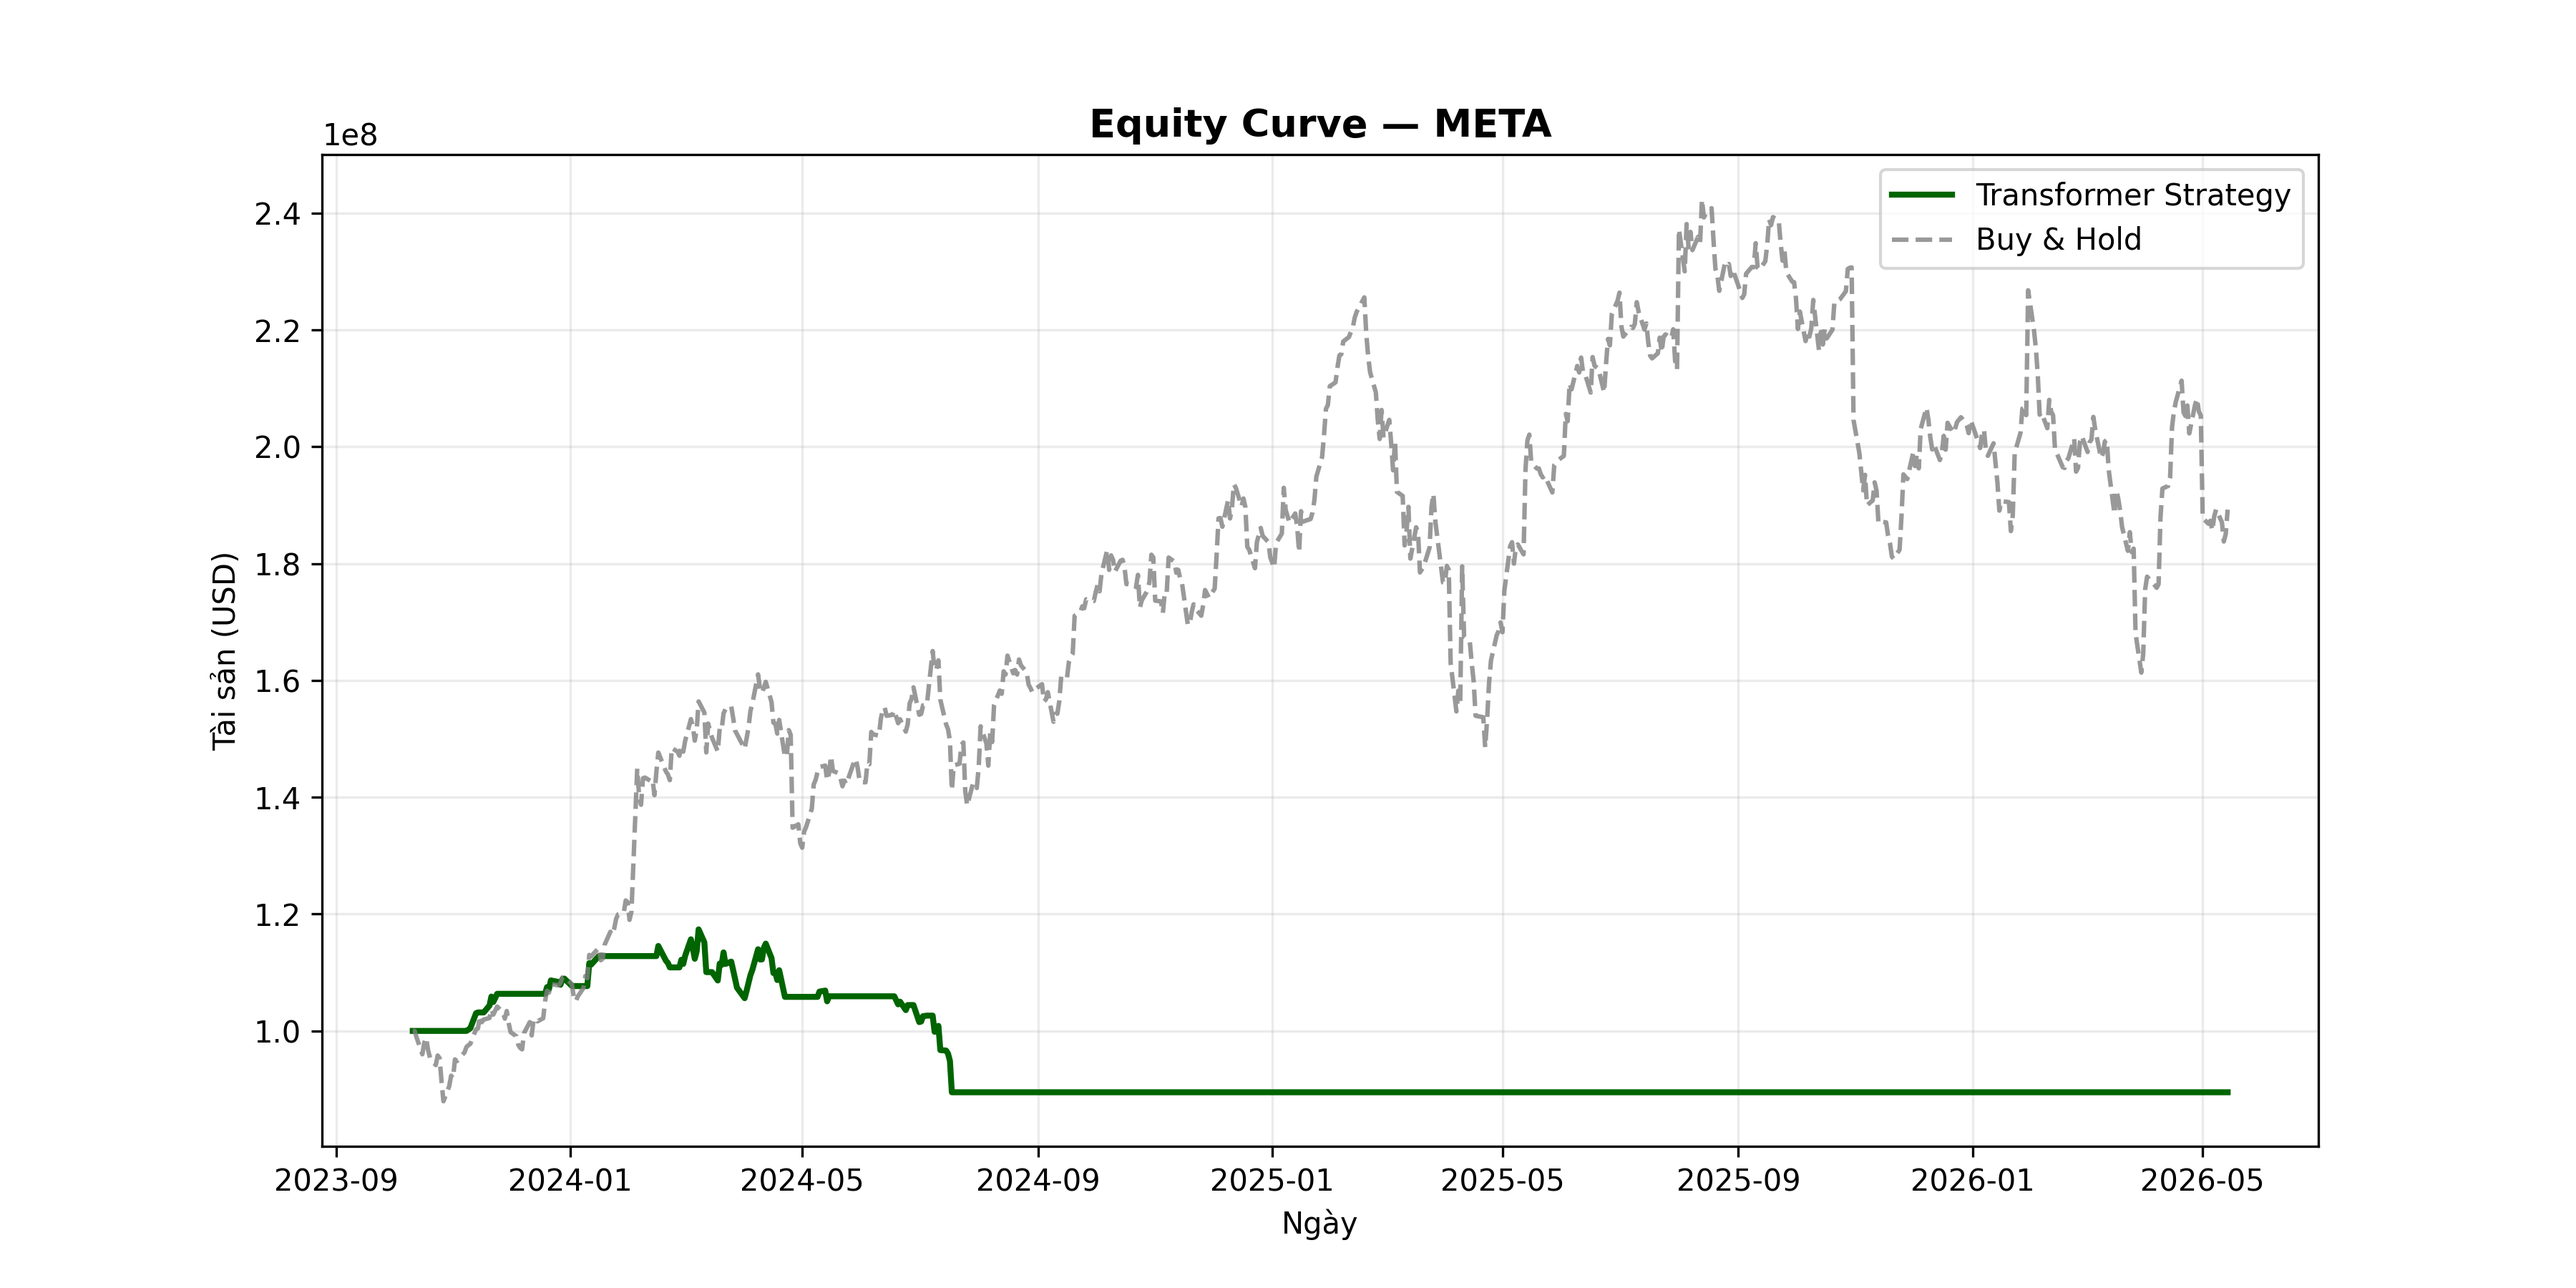
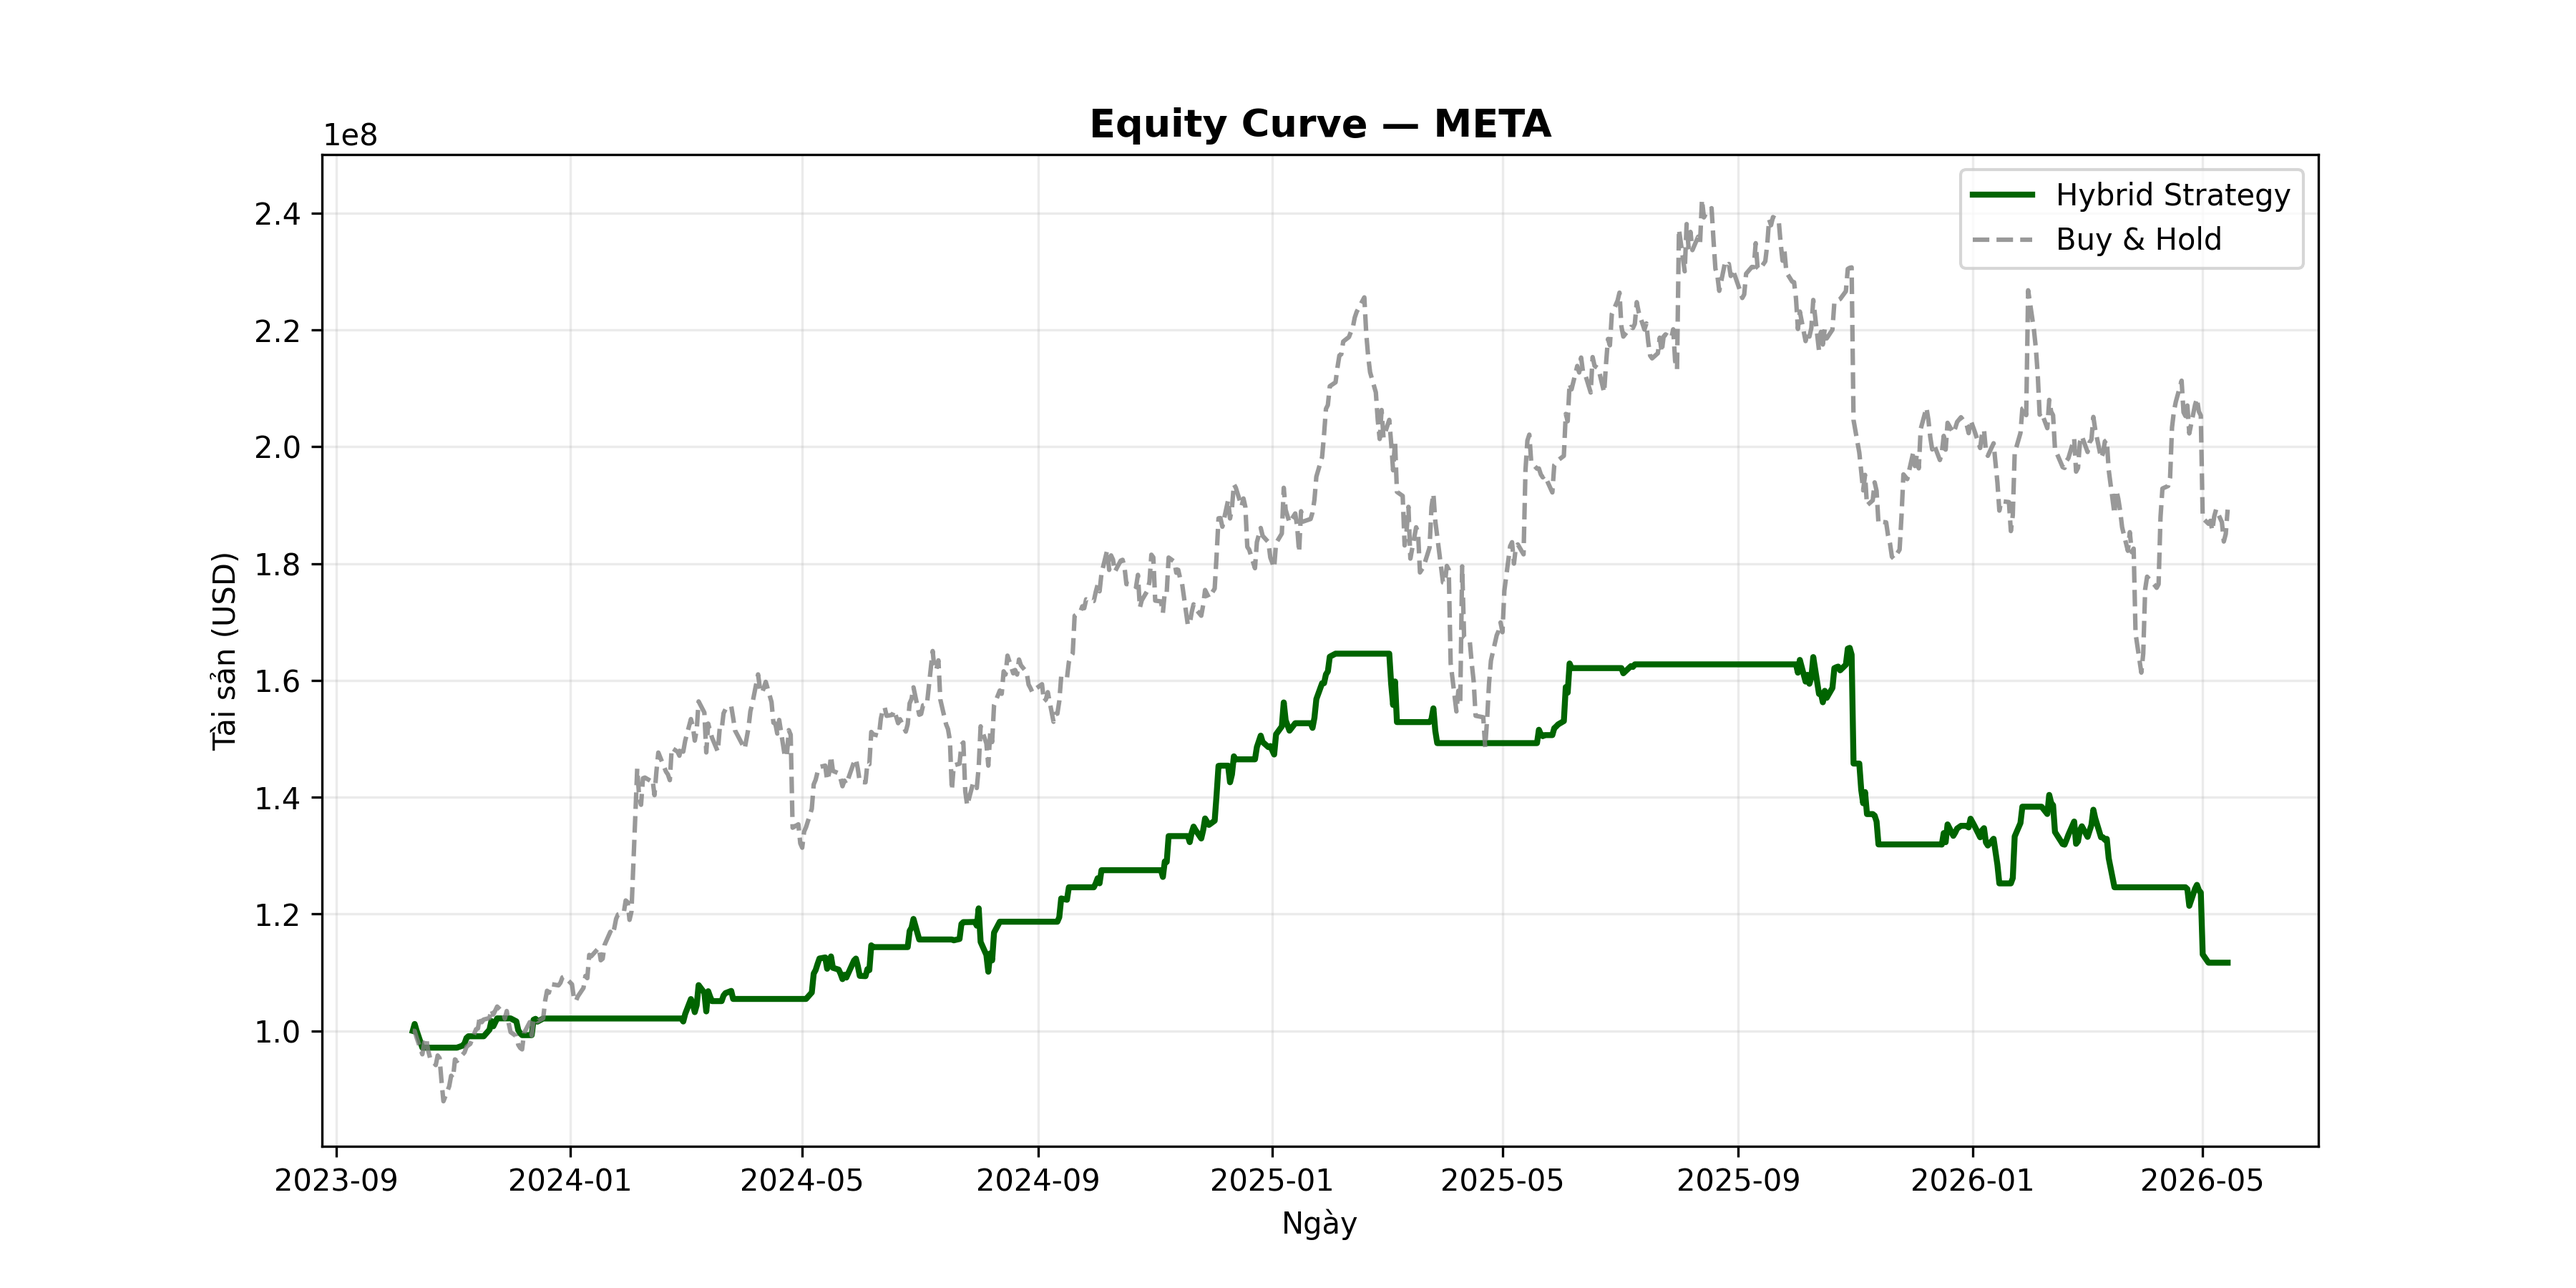
feat: implement portfolio stop-loss resume with cooldown and re-run all backtests

diff --git a/src/backtest_engine.py b/src/backtest_engine.py
@@ -78,6 +78,7 @@ def run_simulation(
     final_returns,
     ticker, commission_pct, slippage_pct,
     threshold_buy=0.0010, threshold_sell=-0.0010,
+    resume_threshold=0.10, cooldown_period=20,
 ):
     """
     Chạy mô phỏng giao dịch trên dữ liệu test.
@@ -89,6 +90,17 @@ def run_simulation(
     df_test:          DataFrame test, length N (dùng cho close/volume/dates/regime).
     df_test_extended: DataFrame test có thêm 1 dòng buffer ở đầu (length N+1),
                        dùng để lấy open[0] làm base cho Buy & Hold.
+
+    resume_threshold: % phục hồi của Buy & Hold (đo từ đáy kể từ lúc dừng lỗ)
+                       cần đạt để tự động mở lại giao dịch (mặc định 10%).
+                       Đo trên B&H thay vì trên equity chiến lược vì sau khi
+                       dừng lỗ chiến lược chỉ còn cash, không phản ánh được
+                       sự phục hồi của thị trường.
+    cooldown_period:   Số phiên tối thiểu phải chờ kể từ lúc dừng lỗ trước khi
+                        được phép mở lại giao dịch, kể cả khi đã đạt
+                        resume_threshold sớm hơn. Tránh vòng lặp "cắt lỗ - hồi
+                        giả 10% - vào lại - cắt lỗ tiếp" trong downtrend kéo
+                        dài có nhiều bull trap (mặc định 20 phiên ≈ 1 tháng).
     """
     final_returns = np.asarray(final_returns)
 
@@ -141,6 +153,14 @@ def run_simulation(
     peak_price = 0.0
     max_equity_peak = initial_capital
     portfolio_stop_loss_triggered = False
+
+    # Trạng thái cho cơ chế Resume sau Stop-Loss:
+    # - bh_trough: đáy thấp nhất của B&H kể từ lần dừng lỗ GẦN NHẤT (reset
+    #   mỗi lần trigger mới, không kế thừa từ lần trigger trước đó).
+    # - stop_loss_trigger_index: chỉ số phiên (i) tại thời điểm trigger,
+    #   dùng để tính cooldown_period (số phiên tối thiểu phải chờ).
+    bh_trough = None
+    stop_loss_trigger_index = None
 
     # Regime filter column theo ticker
     regime_col = 'vnm_etf_above_ma200' if "VNM" in ticker.upper() else 'sp500_above_ma200'
@@ -229,6 +249,11 @@ def run_simulation(
         drawdown = (cur_equity - max_equity_peak) / max_equity_peak
         if drawdown <= -0.20 and not portfolio_stop_loss_triggered:
             portfolio_stop_loss_triggered = True
+            stop_loss_trigger_index = i
+            # Reset đáy B&H NGAY tại thời điểm trigger — không kế thừa đáy
+            # từ lần trigger trước đó (nếu có), tránh dùng nhầm đáy cũ
+            # (ví dụ đáy COVID 2020) làm tham chiếu cho lần dừng lỗ hiện tại.
+            bh_trough = bh_equity[-1]
             currency_label = "VNĐ" if "VNM" in ticker.upper() else "USD"
             print(f"      🚨 [PORTFOLIO STOP-LOSS] Drawdown {drawdown*100:.2f}% "
                   f"vào {date_str(dates[i])} (Đỉnh: {max_equity_peak:,.2f} {currency_label}, "
@@ -244,6 +269,33 @@ def run_simulation(
                     note="PORTFOLIO_STOP_LOSS",
                 ))
                 cur_equity = cash
+
+        # Resume sau Stop-Loss: chỉ xét khi đang bị khóa giao dịch.
+        # Điều kiện mở lại (cả 2 đều phải thỏa):
+        #   1. Đã qua cooldown_period phiên kể từ lúc trigger (tránh bull trap
+        #      ngắn hạn ngay sau khi vừa cắt lỗ).
+        #   2. B&H đã phục hồi >= resume_threshold từ đáy kể từ lúc trigger
+        #      (đo trên B&H, không đo trên equity chiến lược, vì equity
+        #      chiến lược lúc này chỉ là cash không đổi nên không phản ánh
+        #      được sự phục hồi thực tế của thị trường).
+        if portfolio_stop_loss_triggered:
+            bh_trough = min(bh_trough, bh_equity[-1])
+            recovery_from_trough = (bh_equity[-1] - bh_trough) / bh_trough
+            sessions_since_trigger = i - stop_loss_trigger_index
+
+            if (sessions_since_trigger >= cooldown_period
+                    and recovery_from_trough >= resume_threshold):
+                portfolio_stop_loss_triggered = False
+                # Đặt lại đỉnh tài sản = vốn tiền mặt hiện tại, tránh việc
+                # so sánh với đỉnh lịch sử cũ (trước khi sụp đổ) khiến hệ
+                # thống bị kích hoạt dừng lỗ lại ngay lập tức.
+                max_equity_peak = cur_equity
+                bh_trough = None
+                stop_loss_trigger_index = None
+                print(f"      ✅ [RESUME] B&H phục hồi {recovery_from_trough*100:.1f}% "
+                      f"từ đáy sau {sessions_since_trigger} phiên (cooldown "
+                      f"{cooldown_period} phiên) — mở lại giao dịch tại "
+                      f"{date_str(dates[i])}.")
 
         equity.append(cur_equity)
         bh_equity.append(bh_shares * close_vals_full[i])
